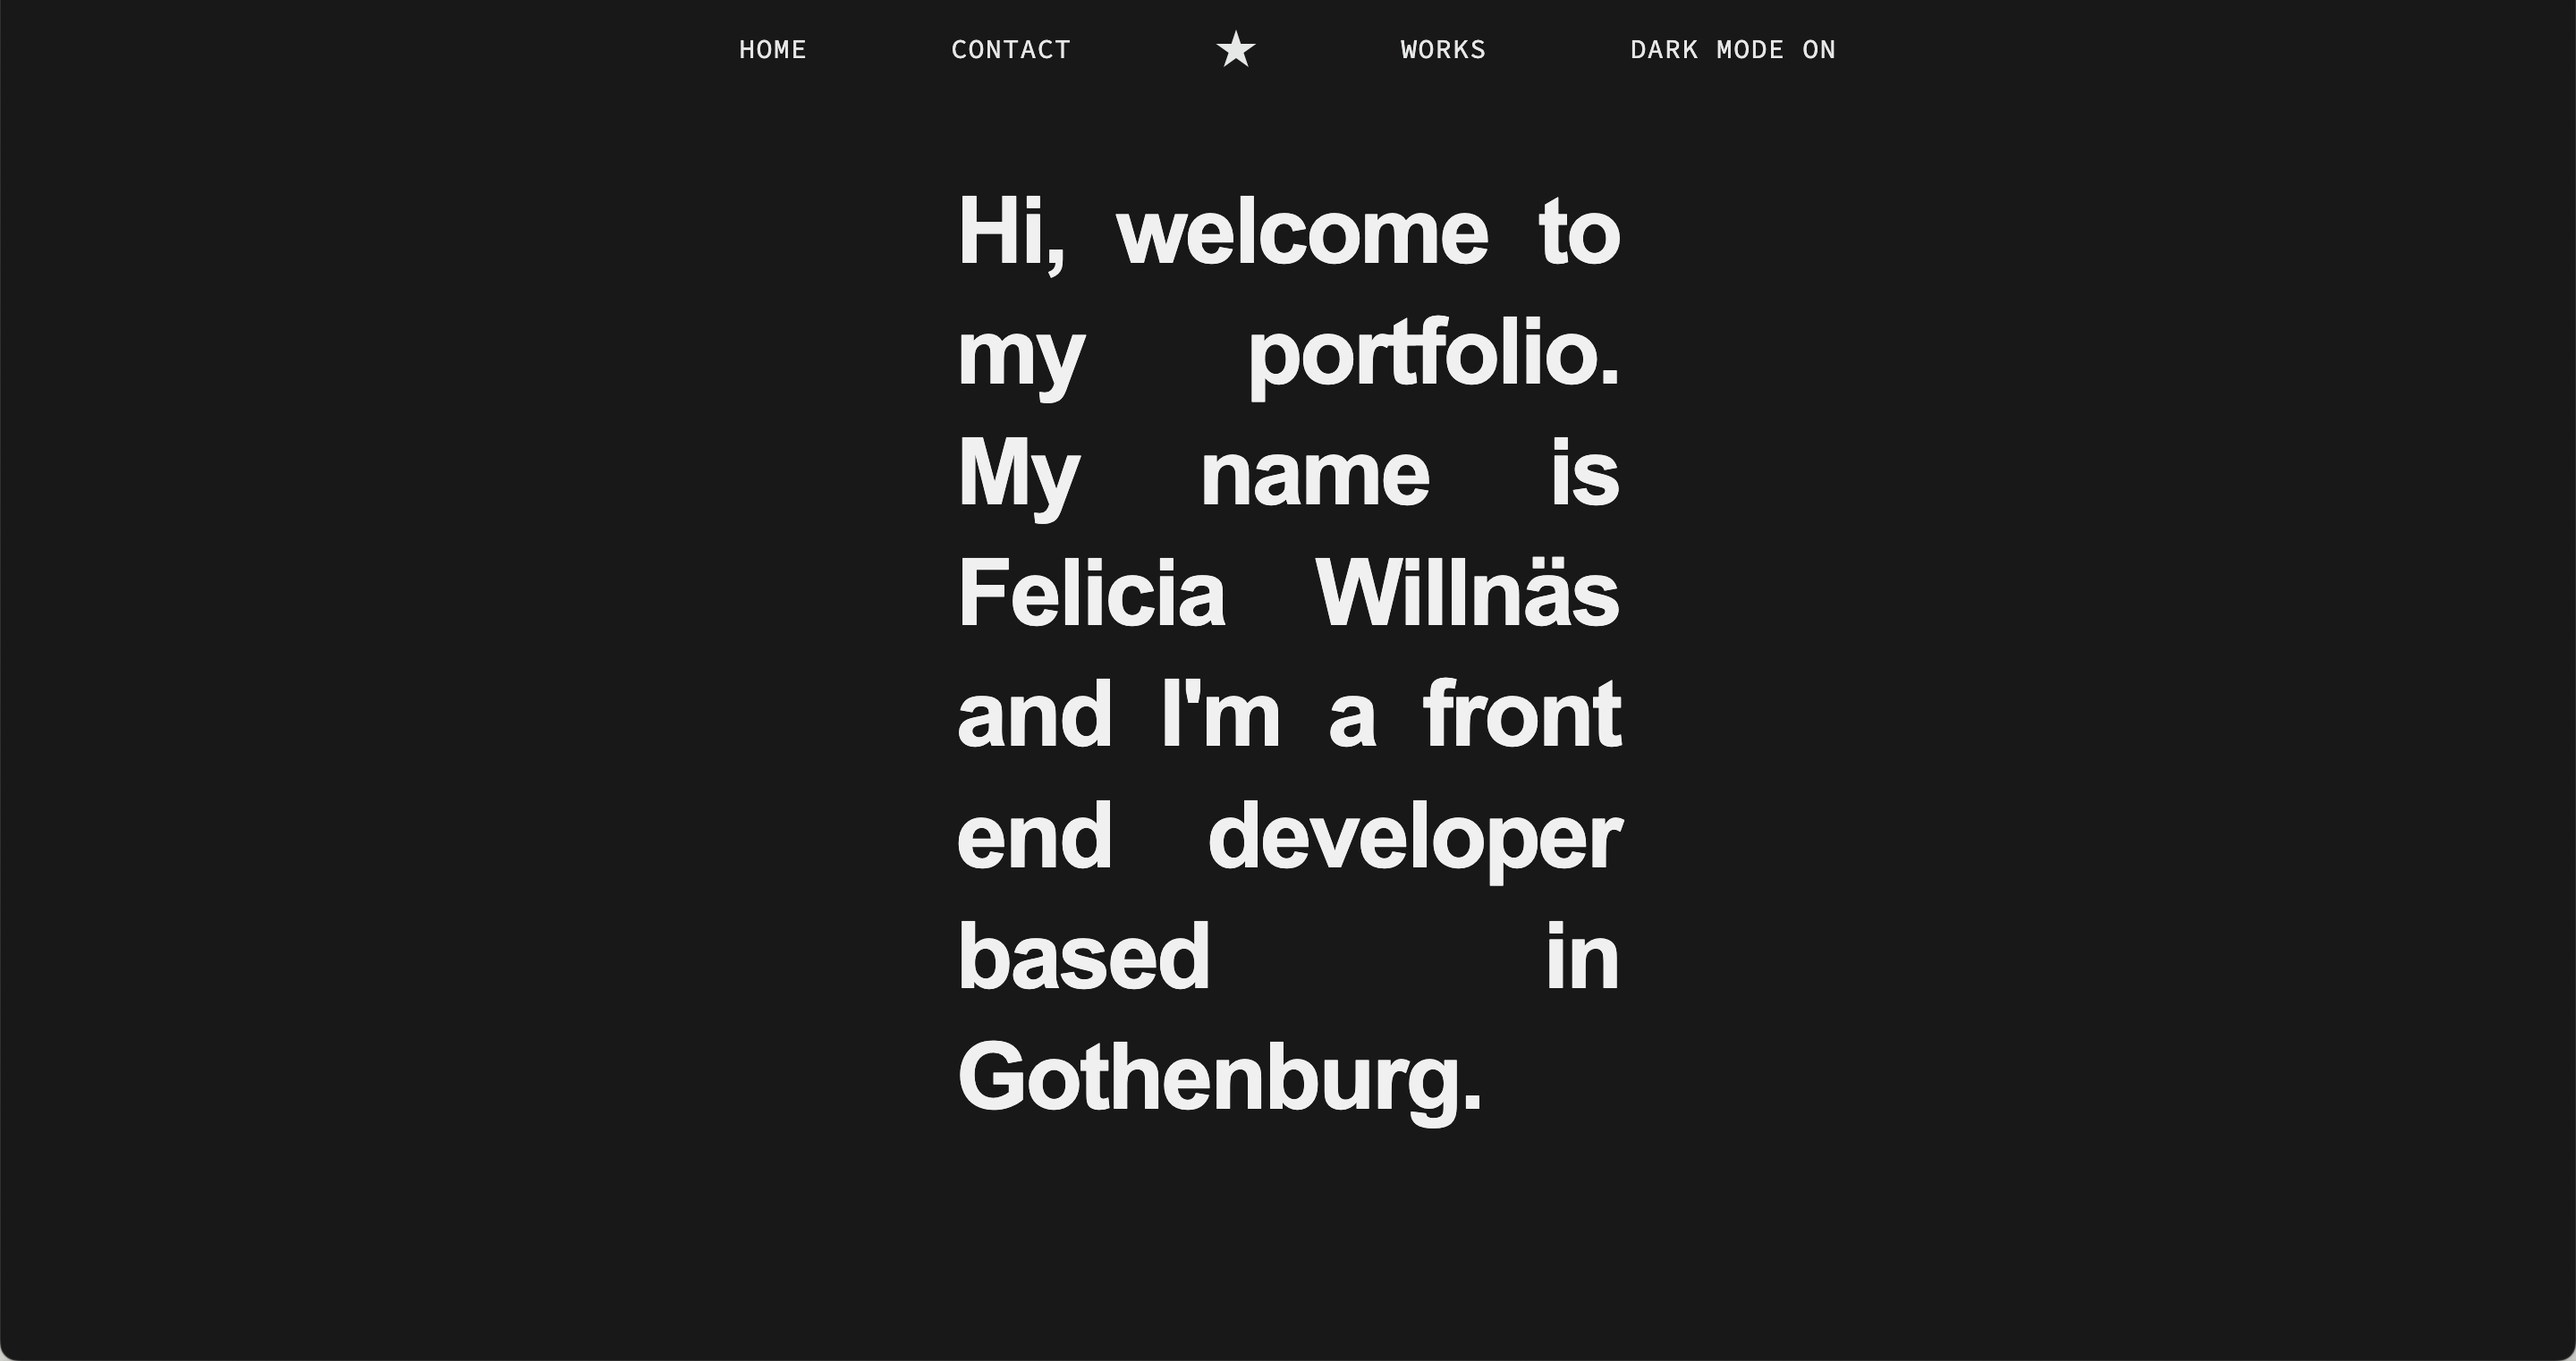
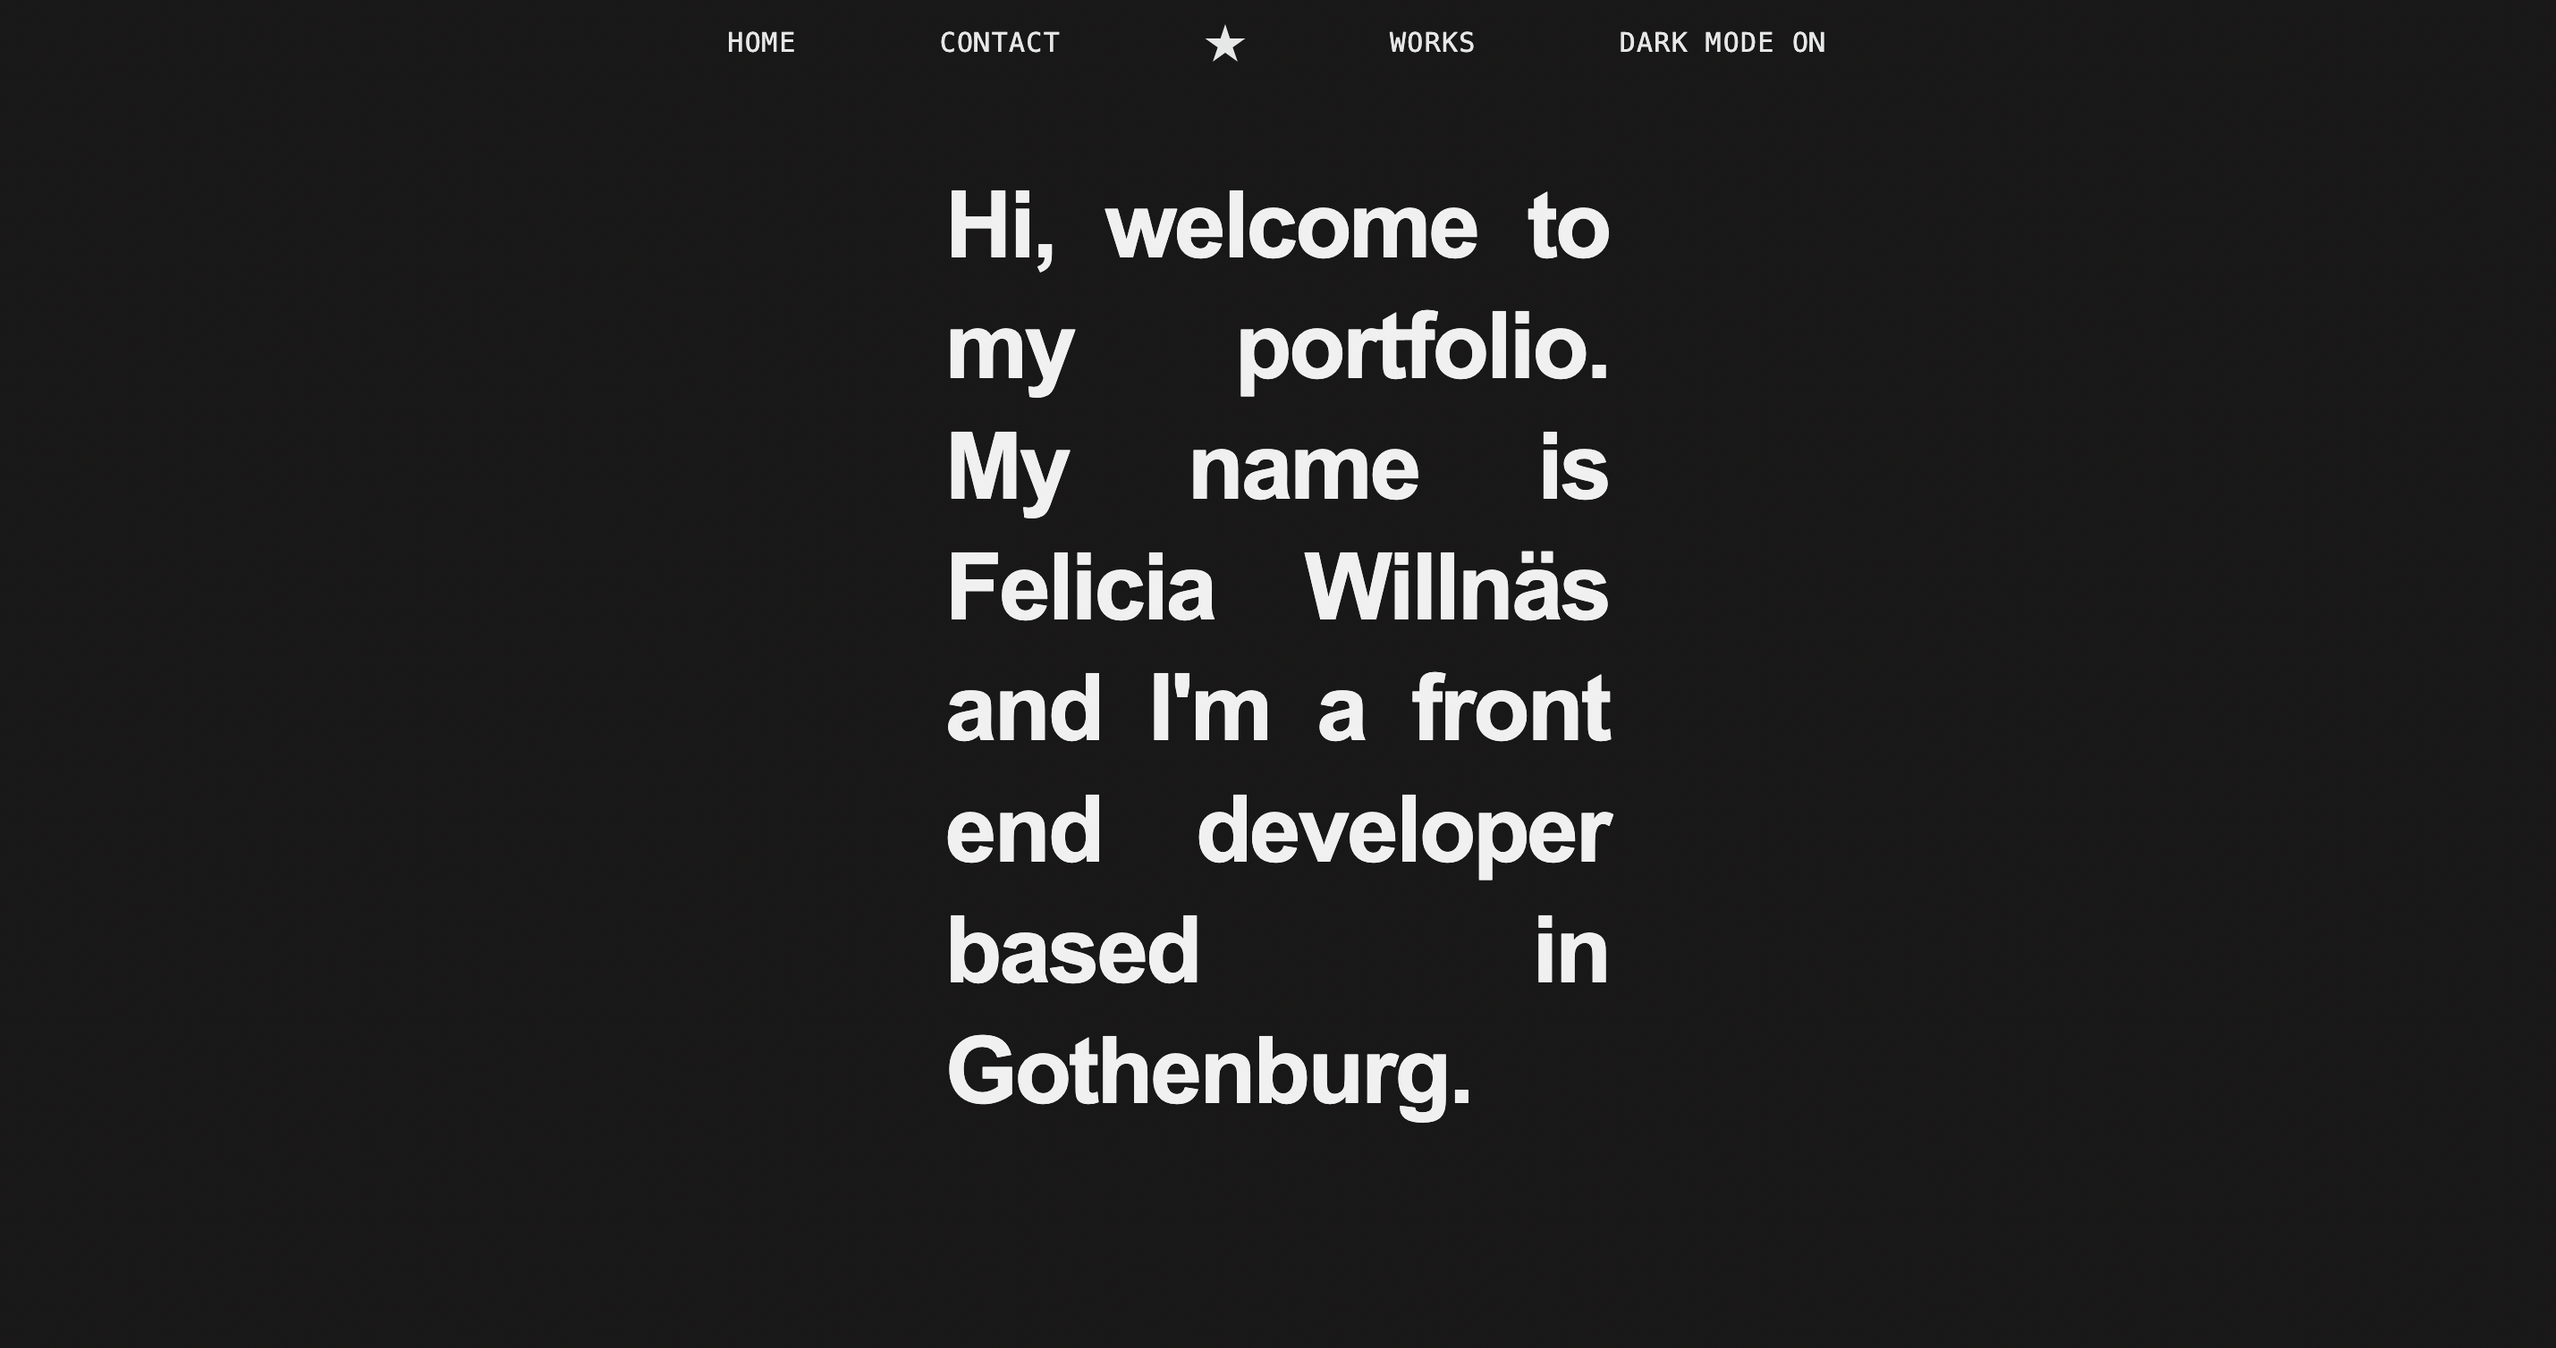
png to webp, color for theme

diff --git a/src/theme.js b/src/theme.js
@@ -5,6 +5,7 @@ export const lightTheme = {
   secondary: "#141414",
   body: "#F7F2EC",
   disabled: "#979494",
+  details: "#232121",
 };
 
 export const darkTheme = {
@@ -14,4 +15,5 @@ export const darkTheme = {
   secondary: "#f0f0f0",
   body: "#191818",
   disabled: "#4b4a4a",
+  details: "#e0d5d5",
 };

diff --git a/src/components/WorksLayouts/WorksLayoutC.jsx b/src/components/WorksLayouts/WorksLayoutC.jsx
@@ -28,6 +28,7 @@ const ProjectImageWrapper = styled.div`
     width: 100%;
     height: auto;
     object-fit: cover;
+    border: 5rem solid ${({ theme }) => theme.details};
   }
 
   &:hover {
